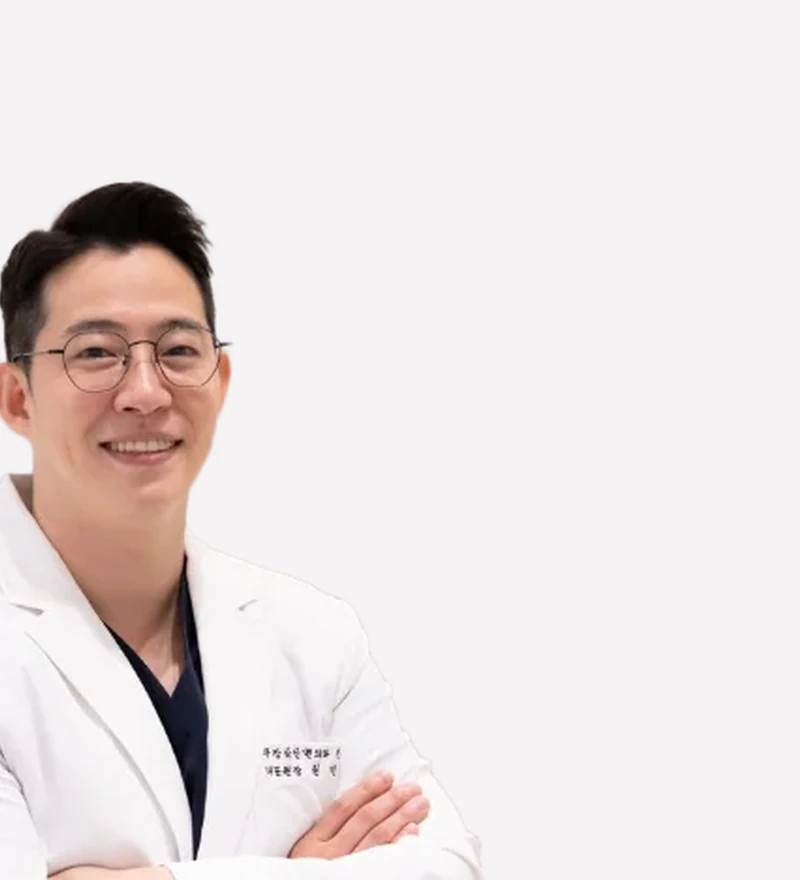
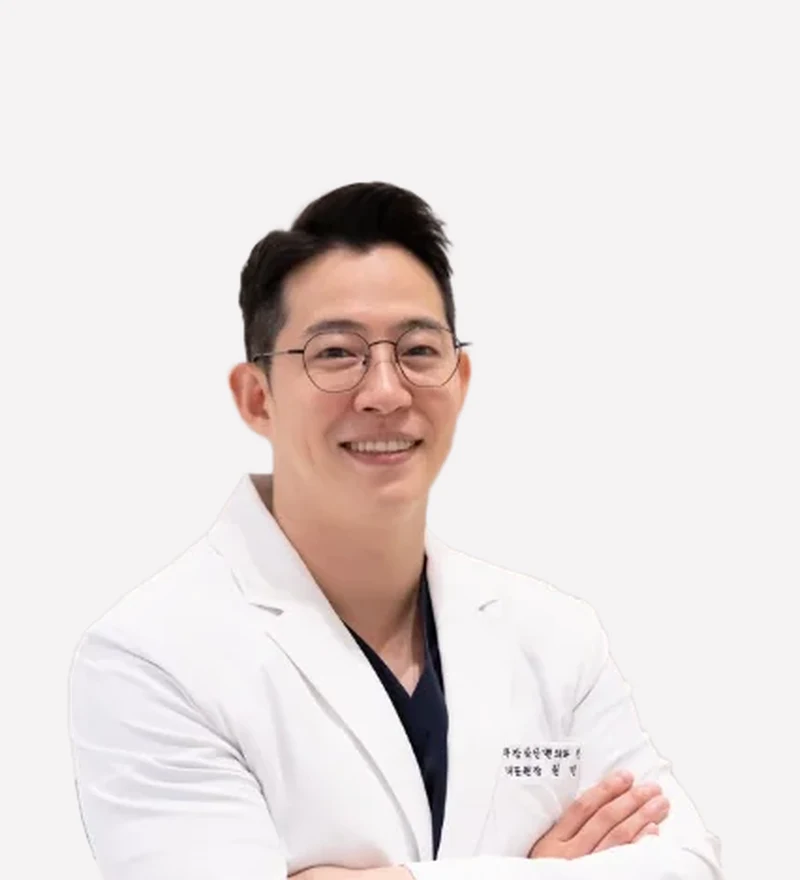
fix(doctors): 권민수 원장 사진 얼굴 가로 중앙 정렬(피사체 중심 49.4%), 얼굴 크기 35% 유지, 캐시 v=20260622d

diff --git a/src/components/layout.ts b/src/components/layout.ts
@@ -290,7 +290,7 @@ export function Footer() {
   </div>
 
   <div class="toast" id="toast"></div>
-  <script src="/static/app.js?v=20260622c"></script>
+  <script src="/static/app.js?v=20260622d"></script>
   `
 }
 
@@ -359,7 +359,7 @@ export function headTags(meta: Meta) {
     <link rel="preconnect" href="https://fonts.gstatic.com" crossorigin />
     ${meta.preloadImage ? raw(`<link rel="preload" as="image" href="${meta.preloadImage}" fetchpriority="high" />`) : ''}
     <!-- 본문 CSS는 렌더 차단 없이 우선 적용 -->
-    <link rel="stylesheet" href="/static/style.css?v=20260622c" />
+    <link rel="stylesheet" href="/static/style.css?v=20260622d" />
     <!-- 한글 동적 서브셋(Pretendard): 실제 사용 글자만 로드 → 4MB→수십KB -->
     <link rel="stylesheet" as="style" crossorigin href="https://cdn.jsdelivr.net/gh/orioncactus/pretendard@v1.3.9/dist/web/variable/pretendardvariable-dynamic-subset.min.css" />
     <!-- 디스플레이/명조/모노: display=swap 으로 FOIT 방지 -->
